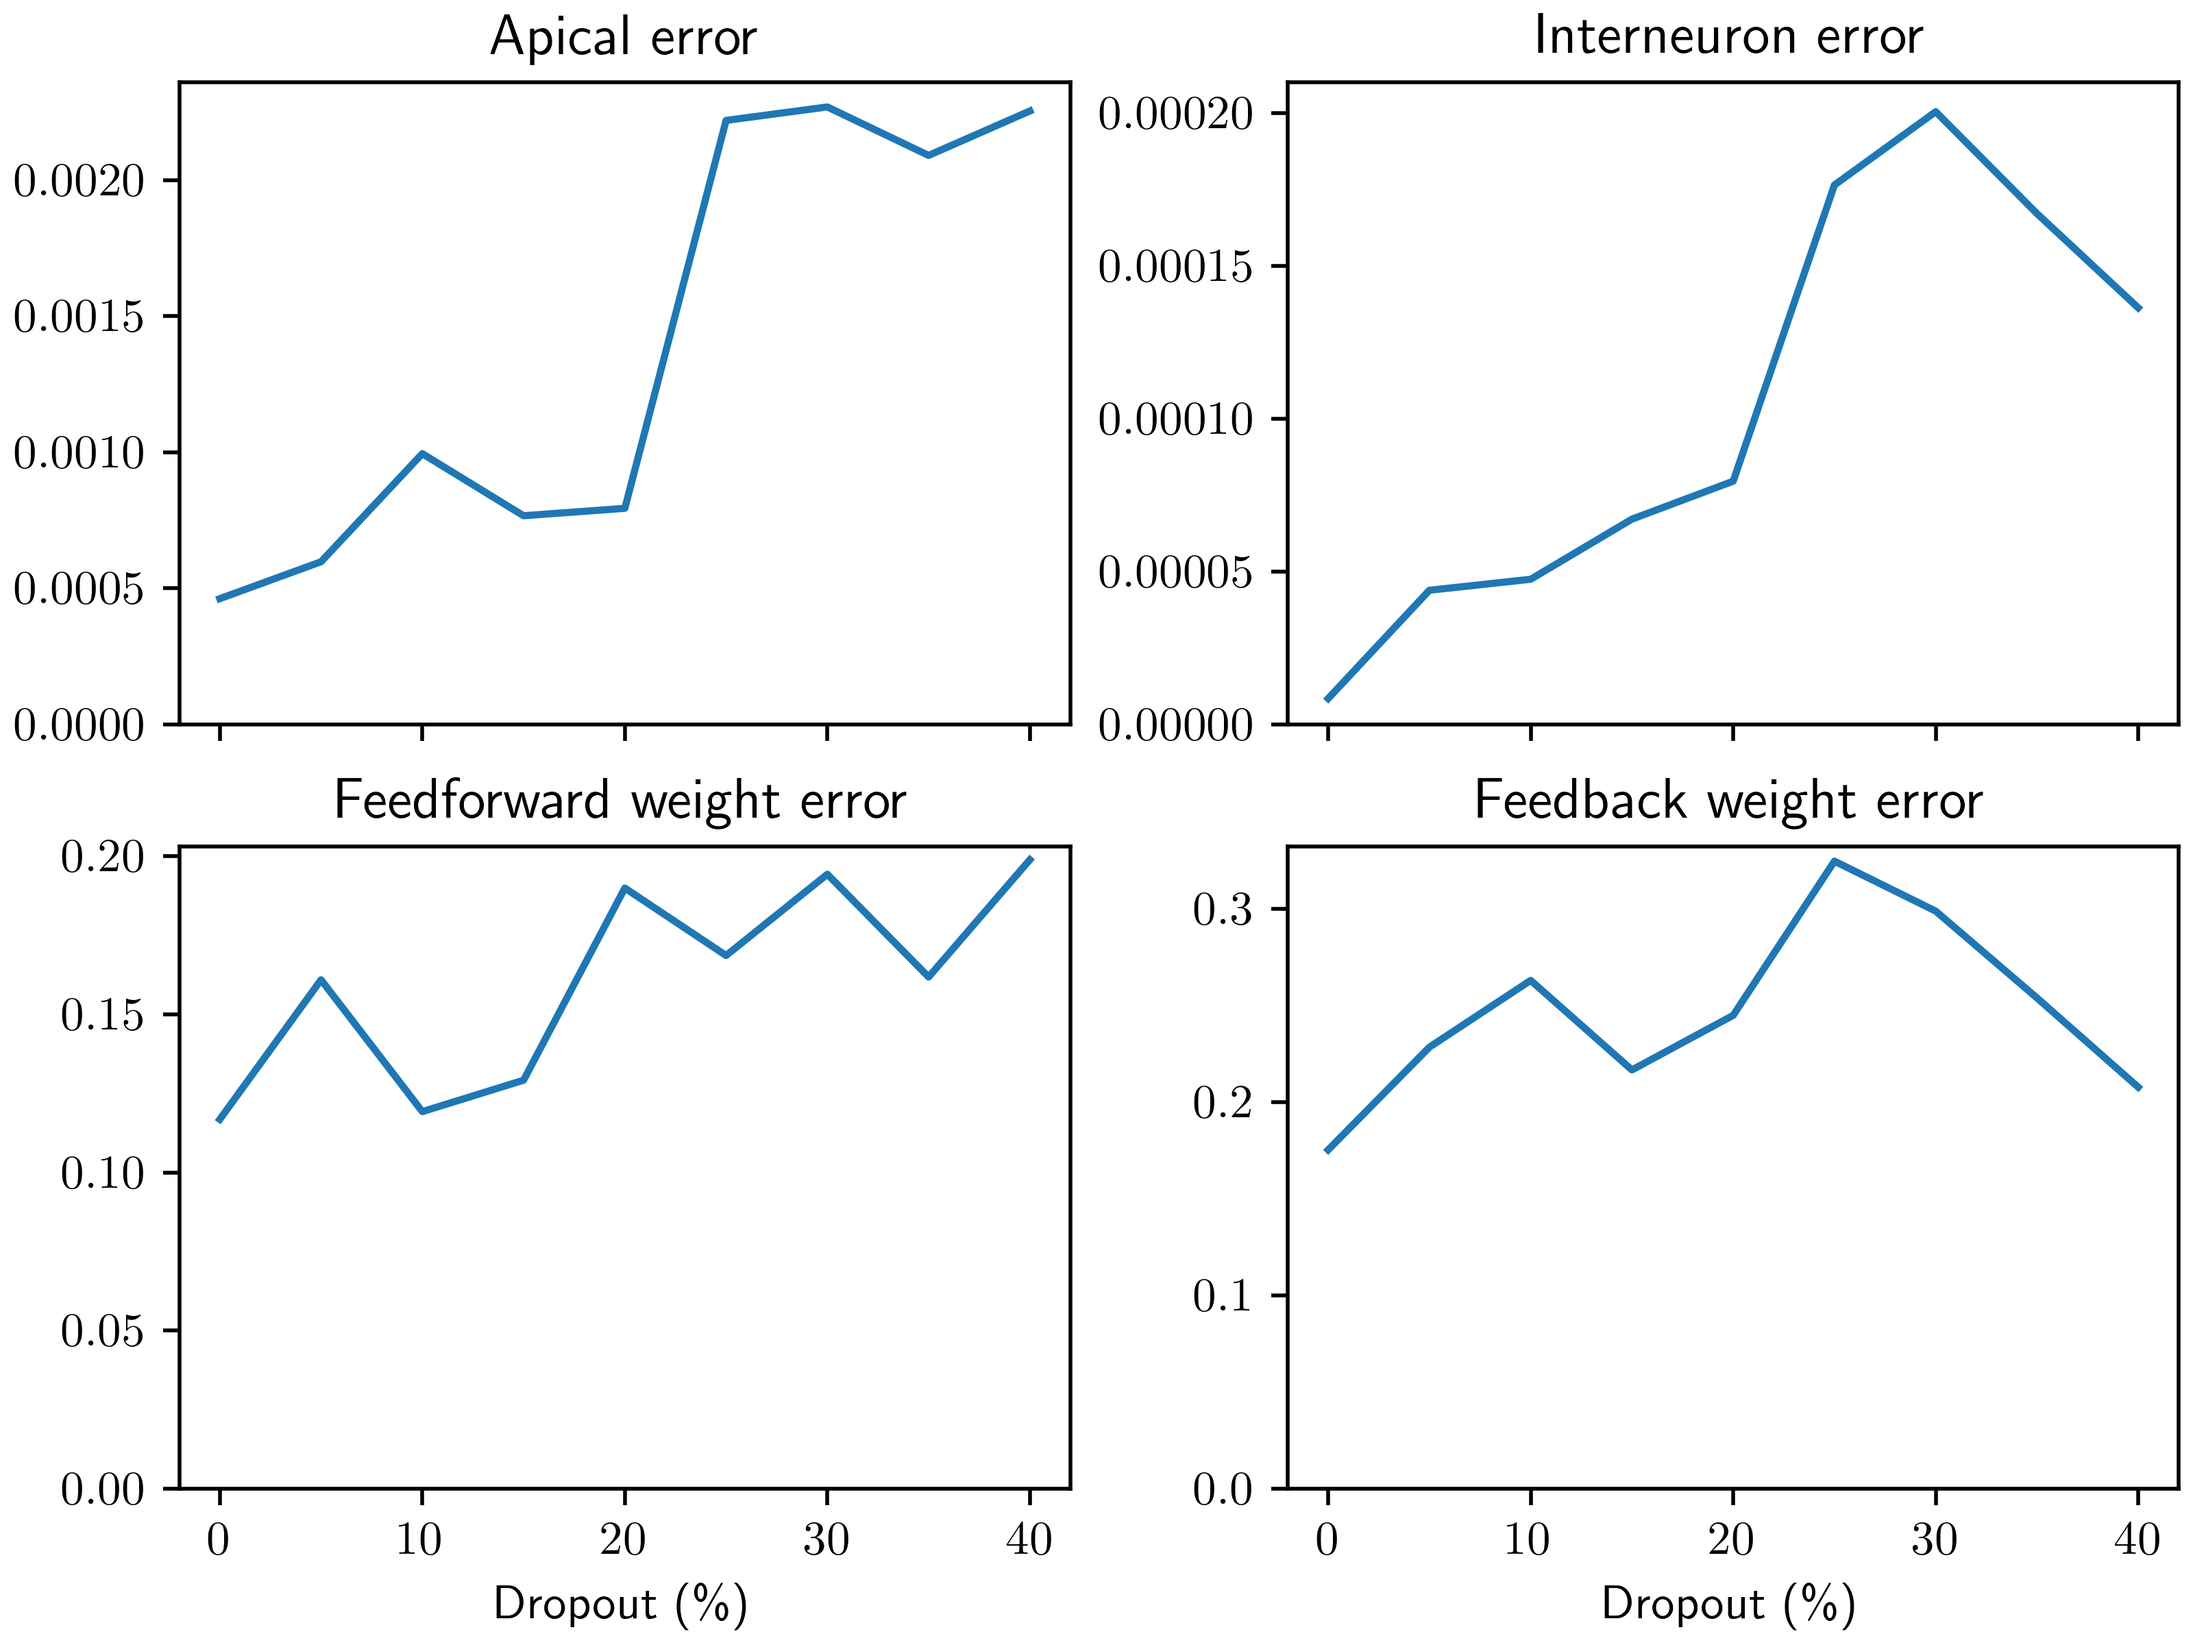
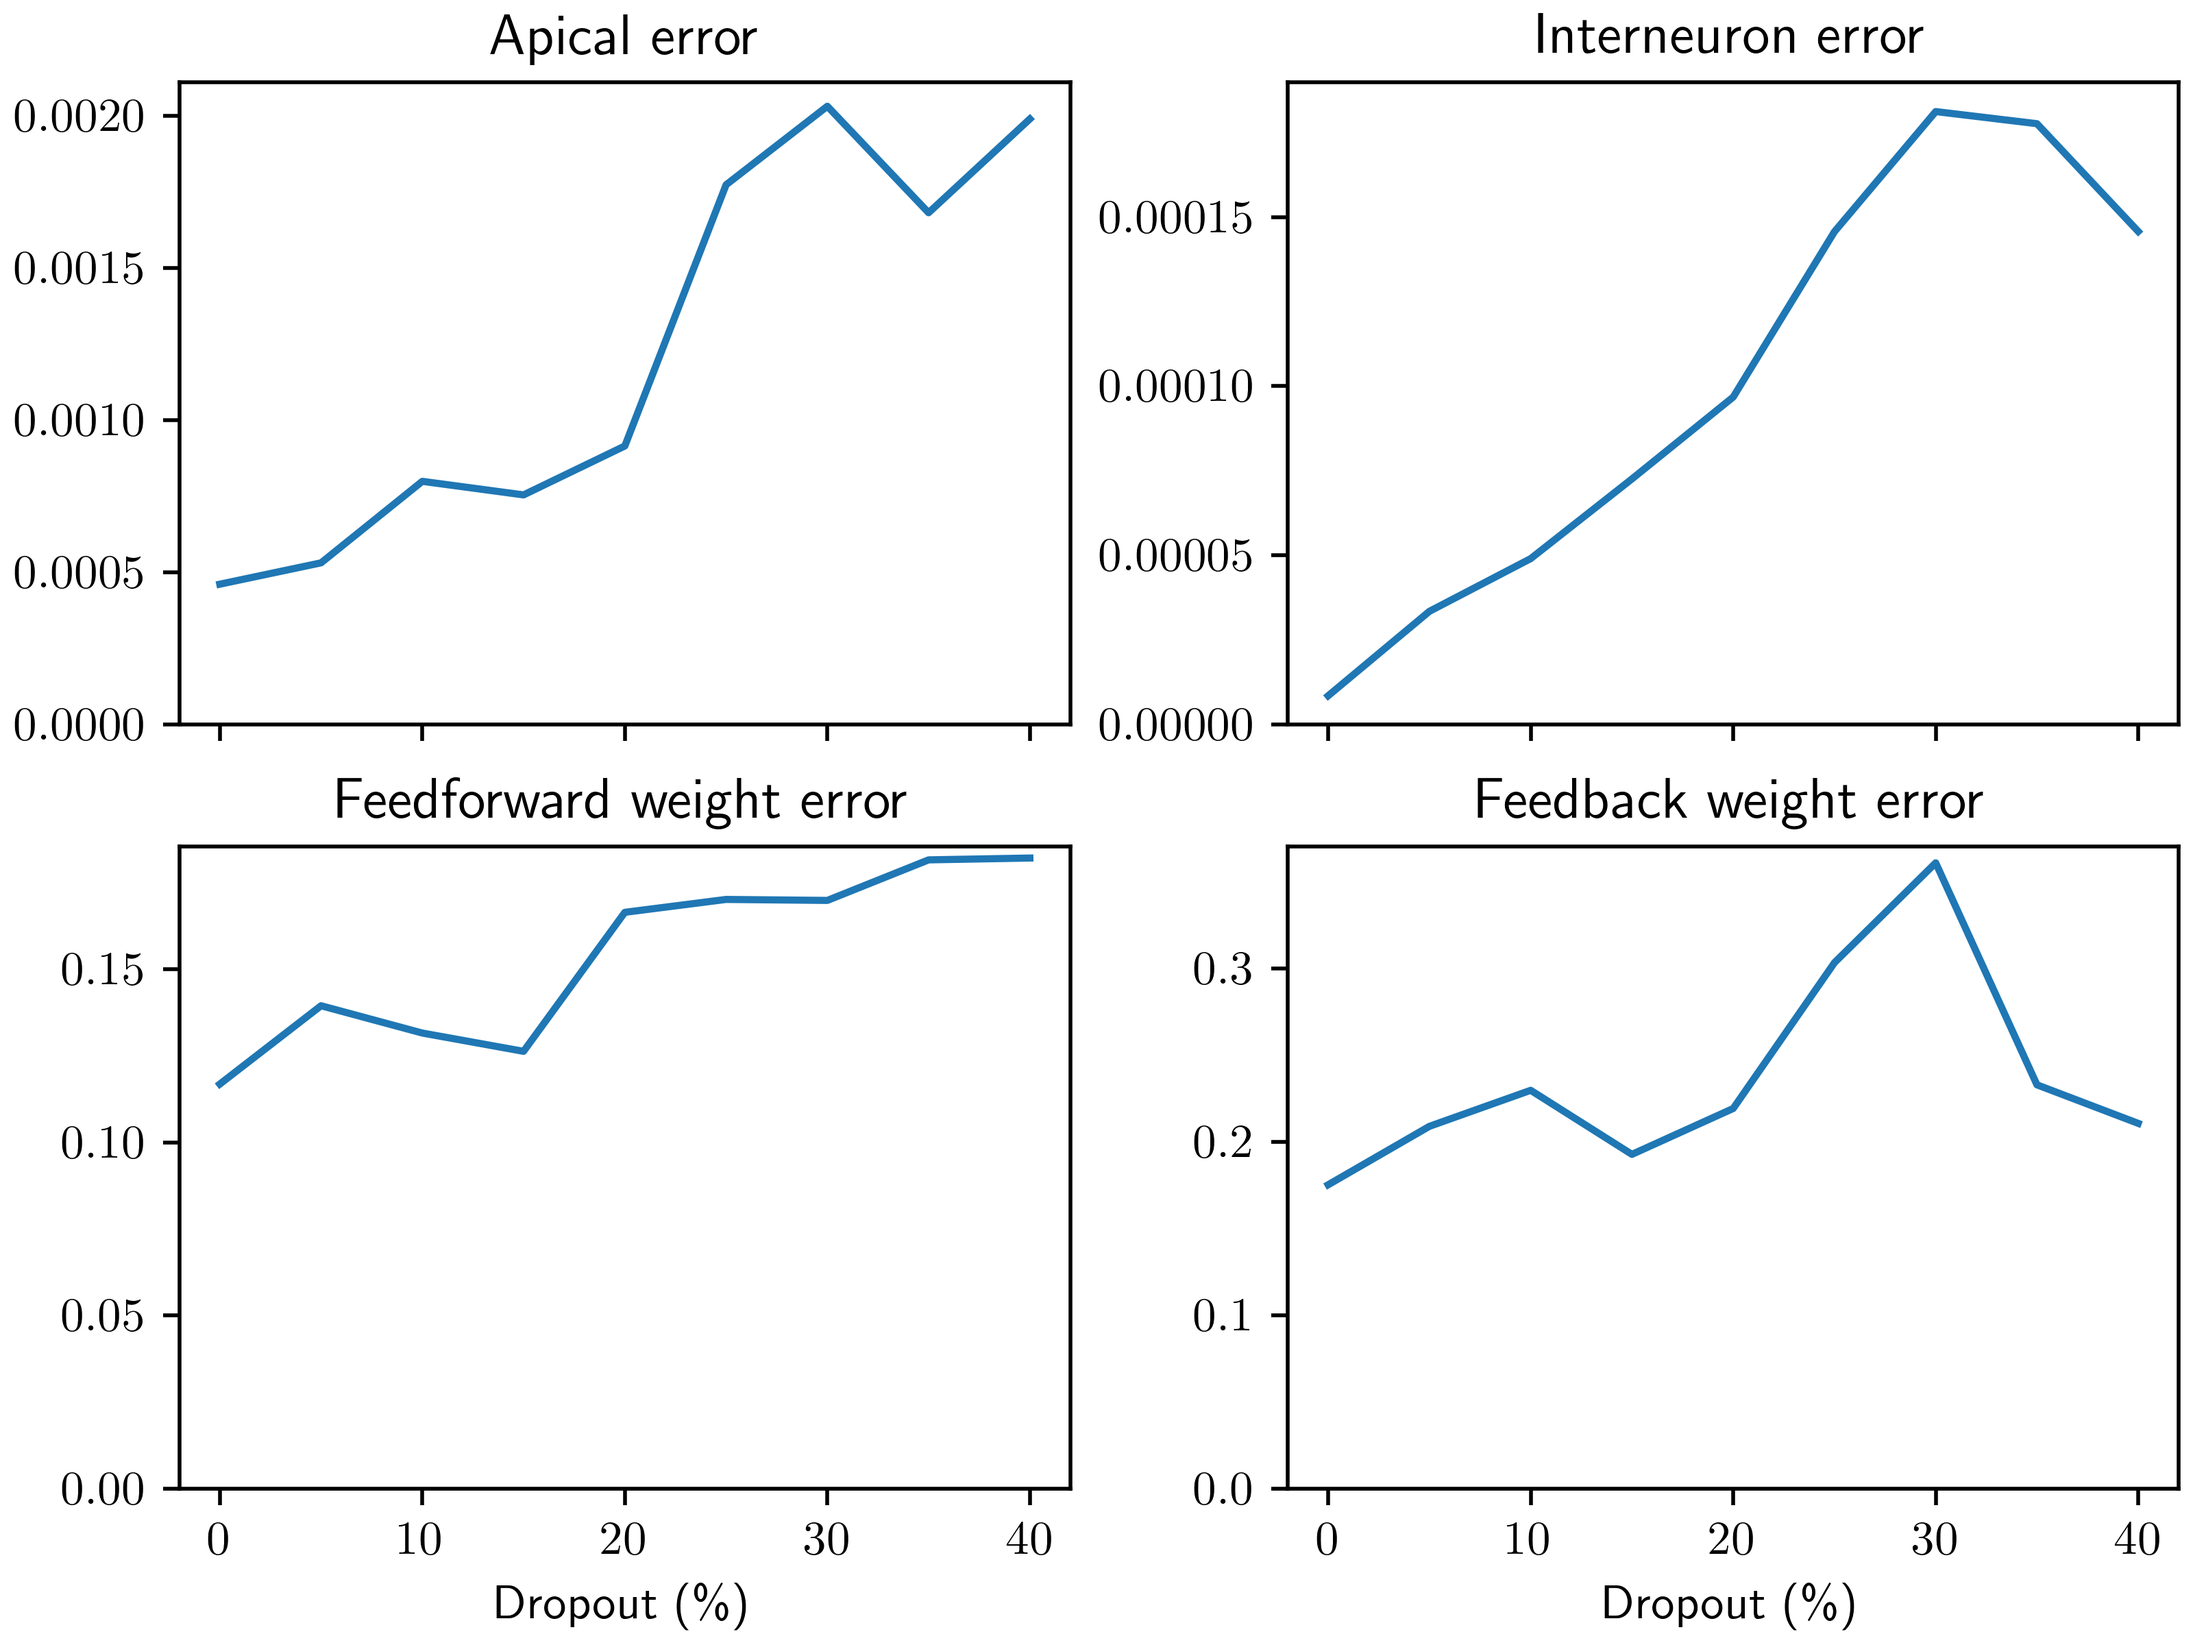
minor changes

diff --git a/pyramidal_microcircuit/scripts/exc_inh_split_network.py b/pyramidal_microcircuit/scripts/exc_inh_split_network.py
@@ -171,20 +171,20 @@ network types ({params.network_type}/{args.network}).")
         syn_spec_exc_2["weight"] = net.gen_weights(n_intn, n_intn_inh, 0, params.wmax_init/n_pyr)
         syn_spec_exc_2["receptor_type"] = params.compartments["soma"]
         l.syn_exc_2 = nest.Connect(l.intn, l.intn_2, conn_spec="all_to_all",
-                                 syn_spec=syn_spec_exc_2, return_synapsecollection=True)
+                                   syn_spec=syn_spec_exc_2, return_synapsecollection=True)
 
         # Connect inhibitory interneurons to pyramidal targets.
         syn_spec_w_inh = deepcopy(l.synapses["pi"])
         syn_spec_w_inh["weight"] = net.gen_weights(n_intn_inh, n_pyr, -weight_factor*params.wmax_init/n_intn_inh, 0)
         syn_spec_w_inh["Wmax"] = 0
-        l.syn_inh = nest.Connect(l.intn_2, l.pyr, conn_spec="all_to_all", syn_spec=syn_spec_w_inh, return_synapsecollection=True)
+        l.syn_inh = nest.Connect(l.intn_2, l.pyr, conn_spec="all_to_all",
+                                 syn_spec=syn_spec_w_inh, return_synapsecollection=True)
 
         dropout = 0.3
         if dropout > 0:
             indices = np.random.choice(n_intn_inh, round(dropout * n_intn_inh), replace=False)
             for i in indices:
                 nest.Disconnect(l.syn_exc_2[i])
-
 
     if args.cont:
         net.test_acc = progress["test_acc"]
